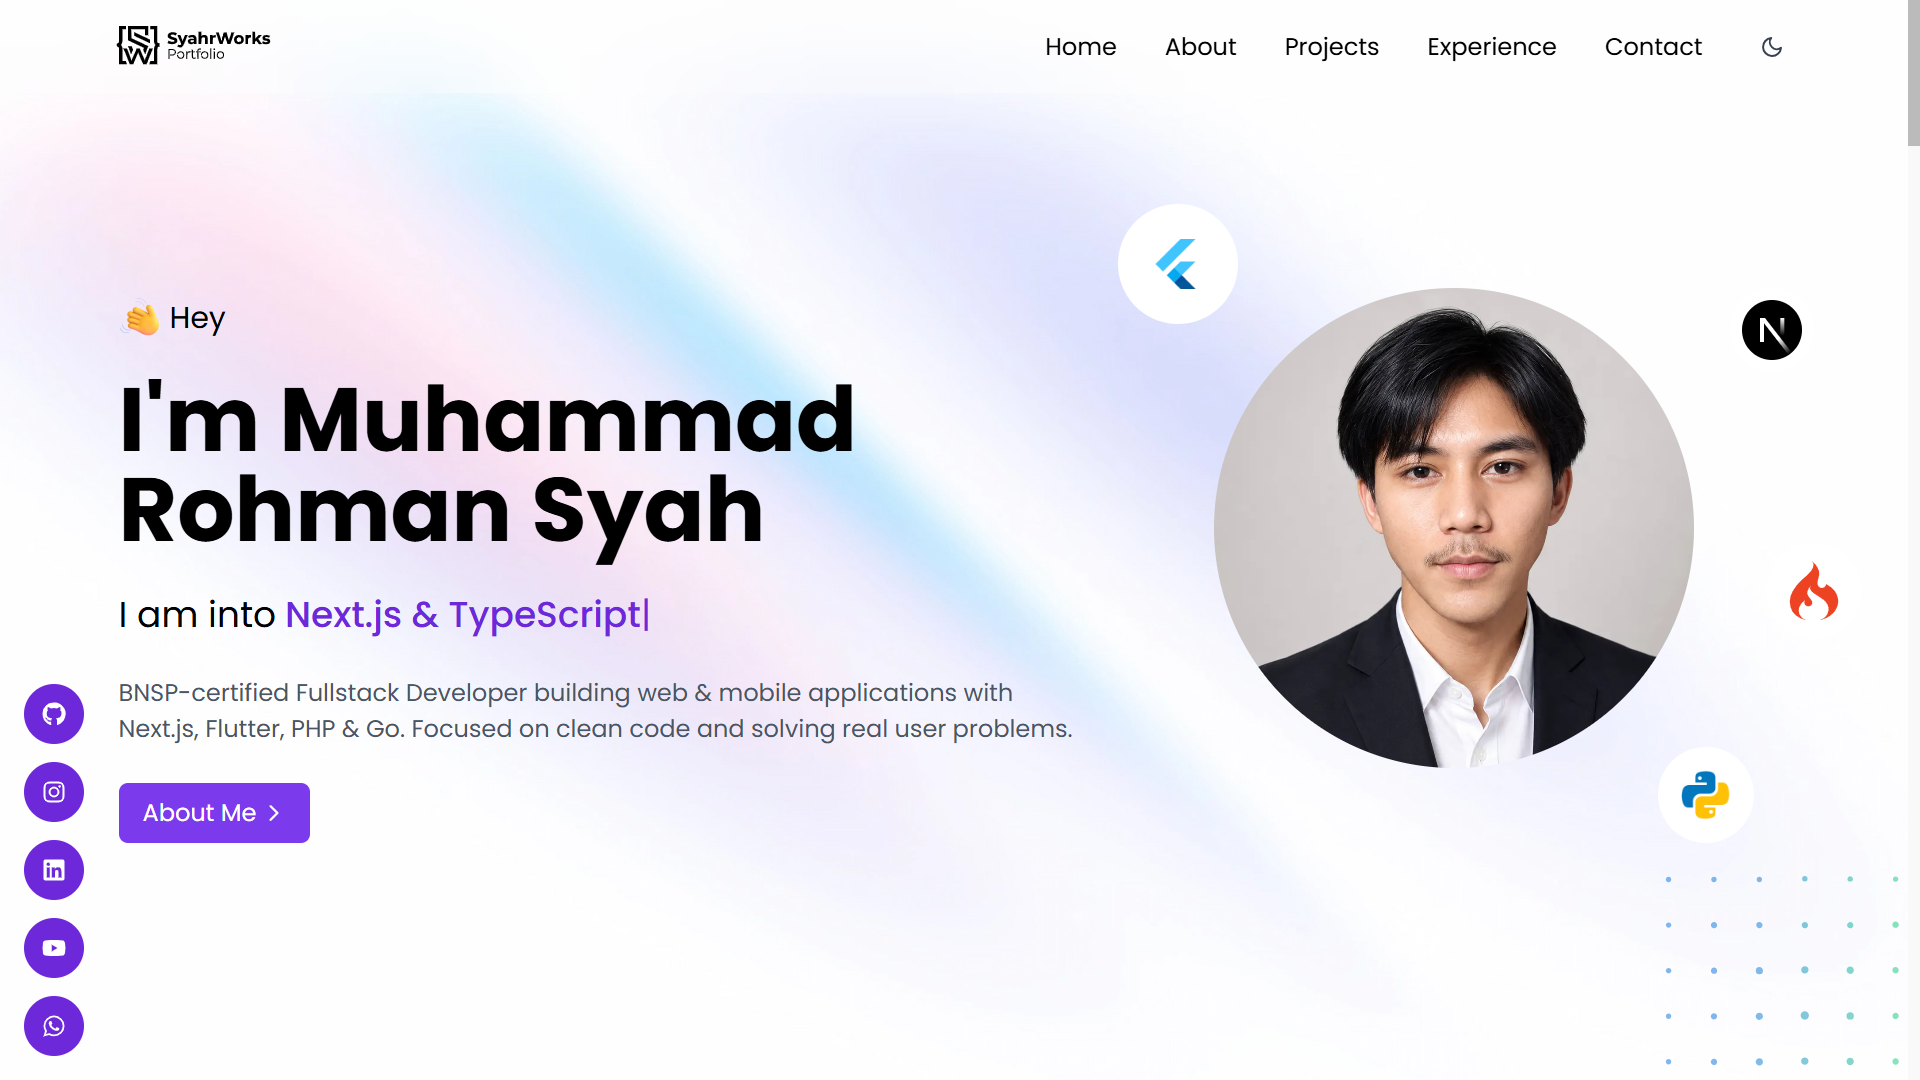
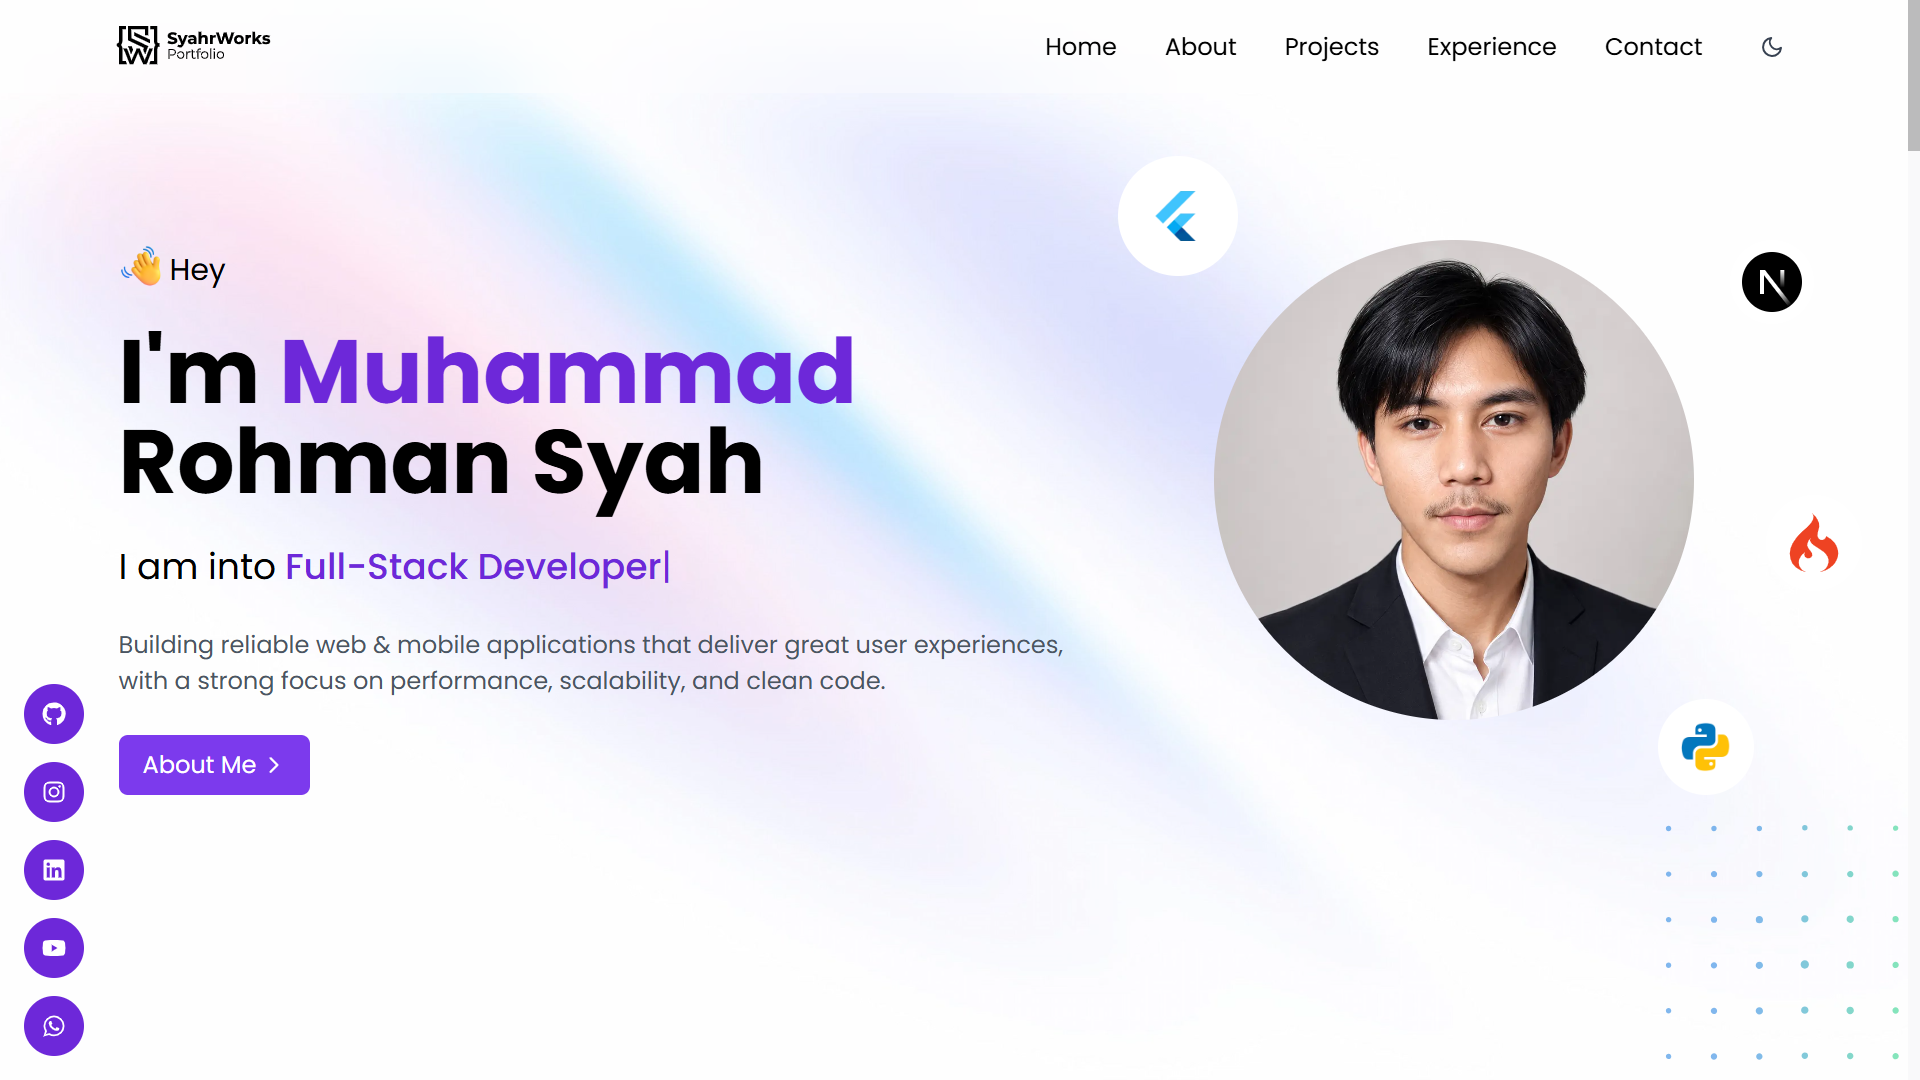
style: unify section spacing, lighten light-mode bg, and polish hero & timeline

diff --git a/components/Hero.tsx b/components/Hero.tsx
@@ -14,9 +14,12 @@ interface HeroProps {
 const Hero = ({ mainData }: HeroProps) => {
 
     const { name, titles, heroImage, shortDesc, techStackImages } = mainData
+    const [firstName, ...lastName] = name.split(' ')
+
+    const circleBase = "bg-white dark:bg-grey-800 rounded-full place-items-center"
 
     return (
-        <section id='home' className="bg-gray-100 dark:bg-grey-900 relative isolate min-h-screen w-full mx-auto overflow-hidden">
+        <section id='home' className="bg-[#F9F9FA] dark:bg-grey-900 relative isolate min-h-screen w-full mx-auto overflow-hidden">
 
             <div className="absolute -z-10 min-h-screen h-full w-full dark:hidden">
                 <Image
@@ -29,7 +32,7 @@ const Hero = ({ mainData }: HeroProps) => {
                     quality={100} alt={''} />
             </div>
 
-            <div className="py-16 lg:py-48 flex flex-col-reverse lg:flex-row justify-around gap-10 lg:gap-0">
+            <div className="pt-16 lg:pt-40 pb-16 lg:pb-20 flex flex-col-reverse lg:flex-row justify-around gap-10 lg:gap-0">
 
                 <div className="flex flex-col gap-4 md:gap-6 text-left lg:w-1/2 2xl:w-1/3 mx-4 md:mx-6 xl:mx-0">
                     <div className="flex items-center gap-1">
@@ -39,7 +42,7 @@ const Hero = ({ mainData }: HeroProps) => {
                         </p>
                     </div>
                     <h1 className="text-4xl md:text-6xl font-bold relative">
-                        I&apos;m {name}
+                        I&apos;m <span className="text-violet-700 dark:text-violet-600">{firstName}</span> {lastName.join(' ')}
                     </h1>
                     <div className="flex flex-row items-start md:items-center gap-1.5">
                         <h2 className="text-lg md:text-2xl">
@@ -66,7 +69,7 @@ const Hero = ({ mainData }: HeroProps) => {
                         <ScrollLink
                             className="w-fit text-sm md:text-base py-2 px-4 cursor-pointer flex items-center gap-1 rounded-md bg-violet-600 hover:bg-violet-700 dark:bg-violet-700 hover:dark:bg-violet-800 transition-colors group text-white"
                             to={'about'}
-                            offset={-60}
+                            offset={-96}
                             smooth={true}
                             duration={500}
                             isDynamic={true}
@@ -82,16 +85,16 @@ const Hero = ({ mainData }: HeroProps) => {
                         <Image alt='avatar' width={1000} height={1000} className="rounded-full w-full h-full object-cover" src={heroImage} />
                     </div>
 
-                    <div className="absolute grid -top-6 -left-12 lg:-top-14 lg:-left-32 w-16 h-16 md:w-20 md:h-20 bg-white dark:bg-grey-800 rounded-full place-items-center hover:shadow-lg transition-shadow">
+                    <div className={`absolute grid -top-6 -left-12 lg:-top-14 lg:-left-32 w-16 h-16 md:w-20 md:h-20 ${circleBase}`}>
                         <Image alt='tech-stack' className="h-8 w-8 md:h-10 md:w-10 object-cover" src={techStackImages[0]} width={100} height={100} />
                     </div>
-                    <div className="absolute grid top-0 -right-12 lg:-right-4 w-14 h-14 bg-white dark:bg-grey-800 rounded-full place-items-center hover:shadow-lg transition-shadow">
+                    <div className={`absolute grid top-0 -right-12 lg:-right-4 w-14 h-14 ${circleBase}`}>
                         <Image alt='tech-stack' className="h-8 w-8 md:h-10 md:w-10 object-cover" src={techStackImages[1]} width={100} height={100} />
                     </div>
-                    <div className="absolute grid bottom-[4rem] md:bottom-24 -right-16 md:-right-20 lg:bottom-[8.5rem] lg:-right-12 w-12 h-12 md:w-16 md:h-16 bg-white dark:bg-grey-800 rounded-full place-items-center hover:shadow-lg transition-shadow">
+                    <div className={`absolute grid bottom-[4rem] md:bottom-24 -right-16 md:-right-20 lg:bottom-[8.5rem] lg:-right-12 w-12 h-12 md:w-16 md:h-16 ${circleBase}`}>
                         <Image alt='tech-stack' className="h-6 w-6 md:h-10 md:w-10 object-cover" src={techStackImages[2]} width={100} height={100} />
                     </div>
-                    <div className="absolute grid -bottom-10 -right-8 lg:-bottom-0 lg:right-6 w-14 md:w-16 h-14 md:h-16 bg-white dark:bg-grey-800 rounded-full place-items-center hover:shadow-lg transition-shadow">
+                    <div className={`absolute grid -bottom-10 -right-8 lg:-bottom-0 lg:right-6 w-14 md:w-16 h-14 md:h-16 ${circleBase}`}>
                         <Image alt='tech-stack' className="h-10 w-10 object-cover" src={techStackImages[3]} width={100} height={100} />
                     </div>
                 </div>

diff --git a/components/projects/Projects.tsx b/components/projects/Projects.tsx
@@ -31,7 +31,7 @@ const Projects = ({ projectsData }: Props) => {
     }, [])
 
     return (
-        <SectionWrapper id="projects" className="mx-4 md:mx-0 min-h-screen">
+        <SectionWrapper id="projects" className="mt-16 md:mt-24 mx-4 md:mx-0">
             <h2 className="text-4xl text-center">Projects</h2>
 
             <div className="overflow-x-auto scroll-hide md:w-full max-w-screen-sm mx-auto mt-6 flex justify-between items-center gap-2 md:gap-3 bg-white dark:bg-grey-800 p-2 rounded-md">
@@ -42,7 +42,7 @@ const Projects = ({ projectsData }: Props) => {
                 ))}
             </div>
 
-            <div className="md:mx-6 lg:mx-auto lg:w-5/6 2xl:w-3/4 my-4 md:my-8 mx-auto grid md:grid-cols-2 xl:grid-cols-3 gap-4 md:gap-10">
+            <div className="md:mx-6 lg:mx-auto lg:w-5/6 2xl:w-3/4 mt-4 md:mt-8 mx-auto grid md:grid-cols-2 xl:grid-cols-3 gap-4 md:gap-10">
                 {filteredProjects.slice(0, viewAll ? filteredProjects.length : 6).map((p: project, i: number) => (
                     <ProjectCard key={i} {...p} />
                 ))}
@@ -74,7 +74,7 @@ export const ViewAll = ({ handleClick, title, scrollTo, animate = false }: { han
                     <Link
                         to={scrollTo}
                         className={`bg-violet-600 text-white px-4 ${animate ? 'animate-bounce' : 'animate-none'} cursor-pointer py-1.5 rounded-md hover:shadow-xl transition-all`}
-                        offset={-60}
+                        offset={-96}
                         smooth={true}
                         duration={500}
                         onClick={() => handleClick()}

diff --git a/app/Header.tsx b/app/Header.tsx
@@ -41,7 +41,7 @@ export default function Header() {
                             <ScrollLink
                                 className='hover:text-violet-700 hover:dark:text-violet-500 transition-colors capitalize cursor-pointer'
                                 to={e.toLowerCase()}
-                                offset={-60}
+                                offset={-96}
                                 smooth={true}
                                 duration={500}
                                 isDynamic={true}
@@ -81,7 +81,7 @@ export default function Header() {
                             key={e}
                             className='hover:text-purple-600 py-1.5 px-4 rounded transition-colors capitalize cursor-pointer'
                             to={e.toLowerCase()}
-                            offset={-60}
+                            offset={-96}
                             smooth={true}
                             duration={500}
                             isDynamic={true}
@@ -92,7 +92,7 @@ export default function Header() {
                     ))}
                     <ScrollLink
                         to='contact'
-                        offset={-60}
+                        offset={-96}
                         smooth={true}
                         duration={500}
                         onClick={() => setNavCollapse(true)}

diff --git a/components/skills/Skills.tsx b/components/skills/Skills.tsx
@@ -13,7 +13,7 @@ const Skills = ({ skillData }: Props) => {
     const [category, setCategory] = useState(categories[0])
 
     return (
-        <SectionWrapper id='skills' className="min-h-screen mt-12 md:mt-0 mx-4 md:mx-0 xl:my-20 2xl:my-0">
+        <SectionWrapper id='skills' className="mt-16 md:mt-24 mx-4 md:mx-0">
             <h2 className="text-4xl text-center">Tech Stack</h2>
 
             <div className="md:w-2/3 overflow-x-auto scroll-hide lg:w-2/3 mx-auto mt-6 bg-white dark:bg-grey-800 p-2 flex justify-between items-center gap-3 rounded-md">
@@ -22,7 +22,7 @@ const Skills = ({ skillData }: Props) => {
                 ))}
             </div>
 
-            <div className="lg:w-3/4 2xl:w-3/5 my-8 mx-auto md:px-12 grid grid-cols-3 md:grid-cols-4 xl:grid-cols-5 place-items-center gap-8">
+            <div className="lg:w-3/4 2xl:w-3/5 mt-8 mx-auto md:px-12 grid grid-cols-3 md:grid-cols-4 xl:grid-cols-5 place-items-center gap-8">
                 {skillData.filter((s: skill) => s.category.toLowerCase() === category.toLowerCase()).map((s: any, i: number) => (
                     <SkillCard key={i} {...s} />
                 ))}

diff --git a/components/experiences/Experiences.tsx b/components/experiences/Experiences.tsx
@@ -18,7 +18,7 @@ const Experiences = ({ experienceData, educationData }: Props) => {
     const [educations, setEducations] = useState([...educationData] as education[])
 
     return (
-        <SectionWrapper id="experience" className="min-h-screen">
+        <SectionWrapper id="experience" className="mt-16 md:mt-24">
             <h2 className="text-4xl text-center">Experience</h2>
 
             <div className="w-fit mx-auto mt-6 p-2 bg-white dark:bg-grey-800 rounded-md flex gap-2 items-center">
@@ -29,7 +29,7 @@ const Experiences = ({ experienceData, educationData }: Props) => {
             </div>
 
             <div className="lg:container sm:mx-4 lg:mx-auto lg:w-5/6 2xl:w-3/4">
-                <div className="relative wrap overflow-hidden p-4 md:py-10 md:px-0">
+                <div className="relative wrap overflow-hidden pt-4 pb-4 md:pt-10 md:pb-6 md:px-0">
                     <div className="left-6 md:left-1/2 absolute border-gray-300 dark:border-gray-600 h-full border"></div>
 
                     {viewAll ?

diff --git a/components/experiences/ExperienceCard.tsx b/components/experiences/ExperienceCard.tsx
@@ -29,7 +29,7 @@ const Experience = ({ index, company, position, desc, institute, degree, startDa
     <div className={`mb-6 md:mb-8 flex md:justify-between items-center w-full ${index % 2 === 0 ? 'md:flex-row-reverse left-timeline' : 'right-timeline'}`}>
       <div className="order-1 md:w-5/12"></div>
 
-      <span className="z-20 flex items-center order-1 justify-center w-6 h-6 md:w-9 md:h-9 bg-violet-200 rounded-full ring-4 md:ring-8 ring-white dark:ring-grey-800 dark:bg-violet-600">
+      <span className="z-20 flex items-center order-1 justify-center w-6 h-6 md:w-9 md:h-9 ml-3 md:ml-0 bg-violet-200 rounded-full ring-4 md:ring-8 ring-white dark:ring-grey-800 dark:bg-violet-600">
         {company && <MdWork className="text-base md:text-xl text-violet-600 dark:text-white" />}
         {institute && <MdSchool className="text-base md:text-xl text-violet-600 dark:text-white" />}
       </span>

diff --git a/components/About.tsx b/components/About.tsx
@@ -14,7 +14,7 @@ const About = ({ aboutData, name }: Props) => {
     const { aboutImage, aboutImageCaption, title, about, resumeUrl, callUrl } = aboutData
 
     return (
-        <SectionWrapper id="about" className="min-h-[90vh] pt-12 bg-gradient-to-b from-white to-gray-100/20 dark:from-grey-900 dark:to-grey-900">
+        <SectionWrapper id="about" className="pt-12 bg-gradient-to-b from-white to-[#F9F9FA] dark:from-grey-900 dark:to-grey-900">
             <h2 className="text-4xl text-center">About Me</h2>
 
             <div className="w-full lg:w-11/12 2xl:w-4/5 mt-2 lg:mt-20 mx-auto flex flex-col md:gap-4 lg:flex-row justify-between items-center">

diff --git a/app/layout.tsx b/app/layout.tsx
@@ -15,7 +15,7 @@ export default function RootLayout({
 }) {
   return (
     <html lang="en" suppressHydrationWarning>
-      <body className={`${poppins.className} font-poppins bg-gray-100/50 dark:bg-grey-900 text-black dark:text-white overflow-x-hidden`}>
+      <body className={`${poppins.className} font-poppins bg-[#F9F9FA] dark:bg-grey-900 text-black dark:text-white overflow-x-hidden`}>
         <ThemeWrapper>
           {children}
         </ThemeWrapper>

diff --git a/components/Contact.tsx b/components/Contact.tsx
@@ -64,7 +64,7 @@ const Contact = () => {
     };
 
     return (
-        <SectionWrapper id="contact" className="mb-16 mx-4 lg:mx-0">
+        <SectionWrapper id="contact" className="mt-16 md:mt-24 mx-4 lg:mx-0">
             <h2 className="text-center text-4xl">Contact Me</h2>
             <ToastContainer />
 
